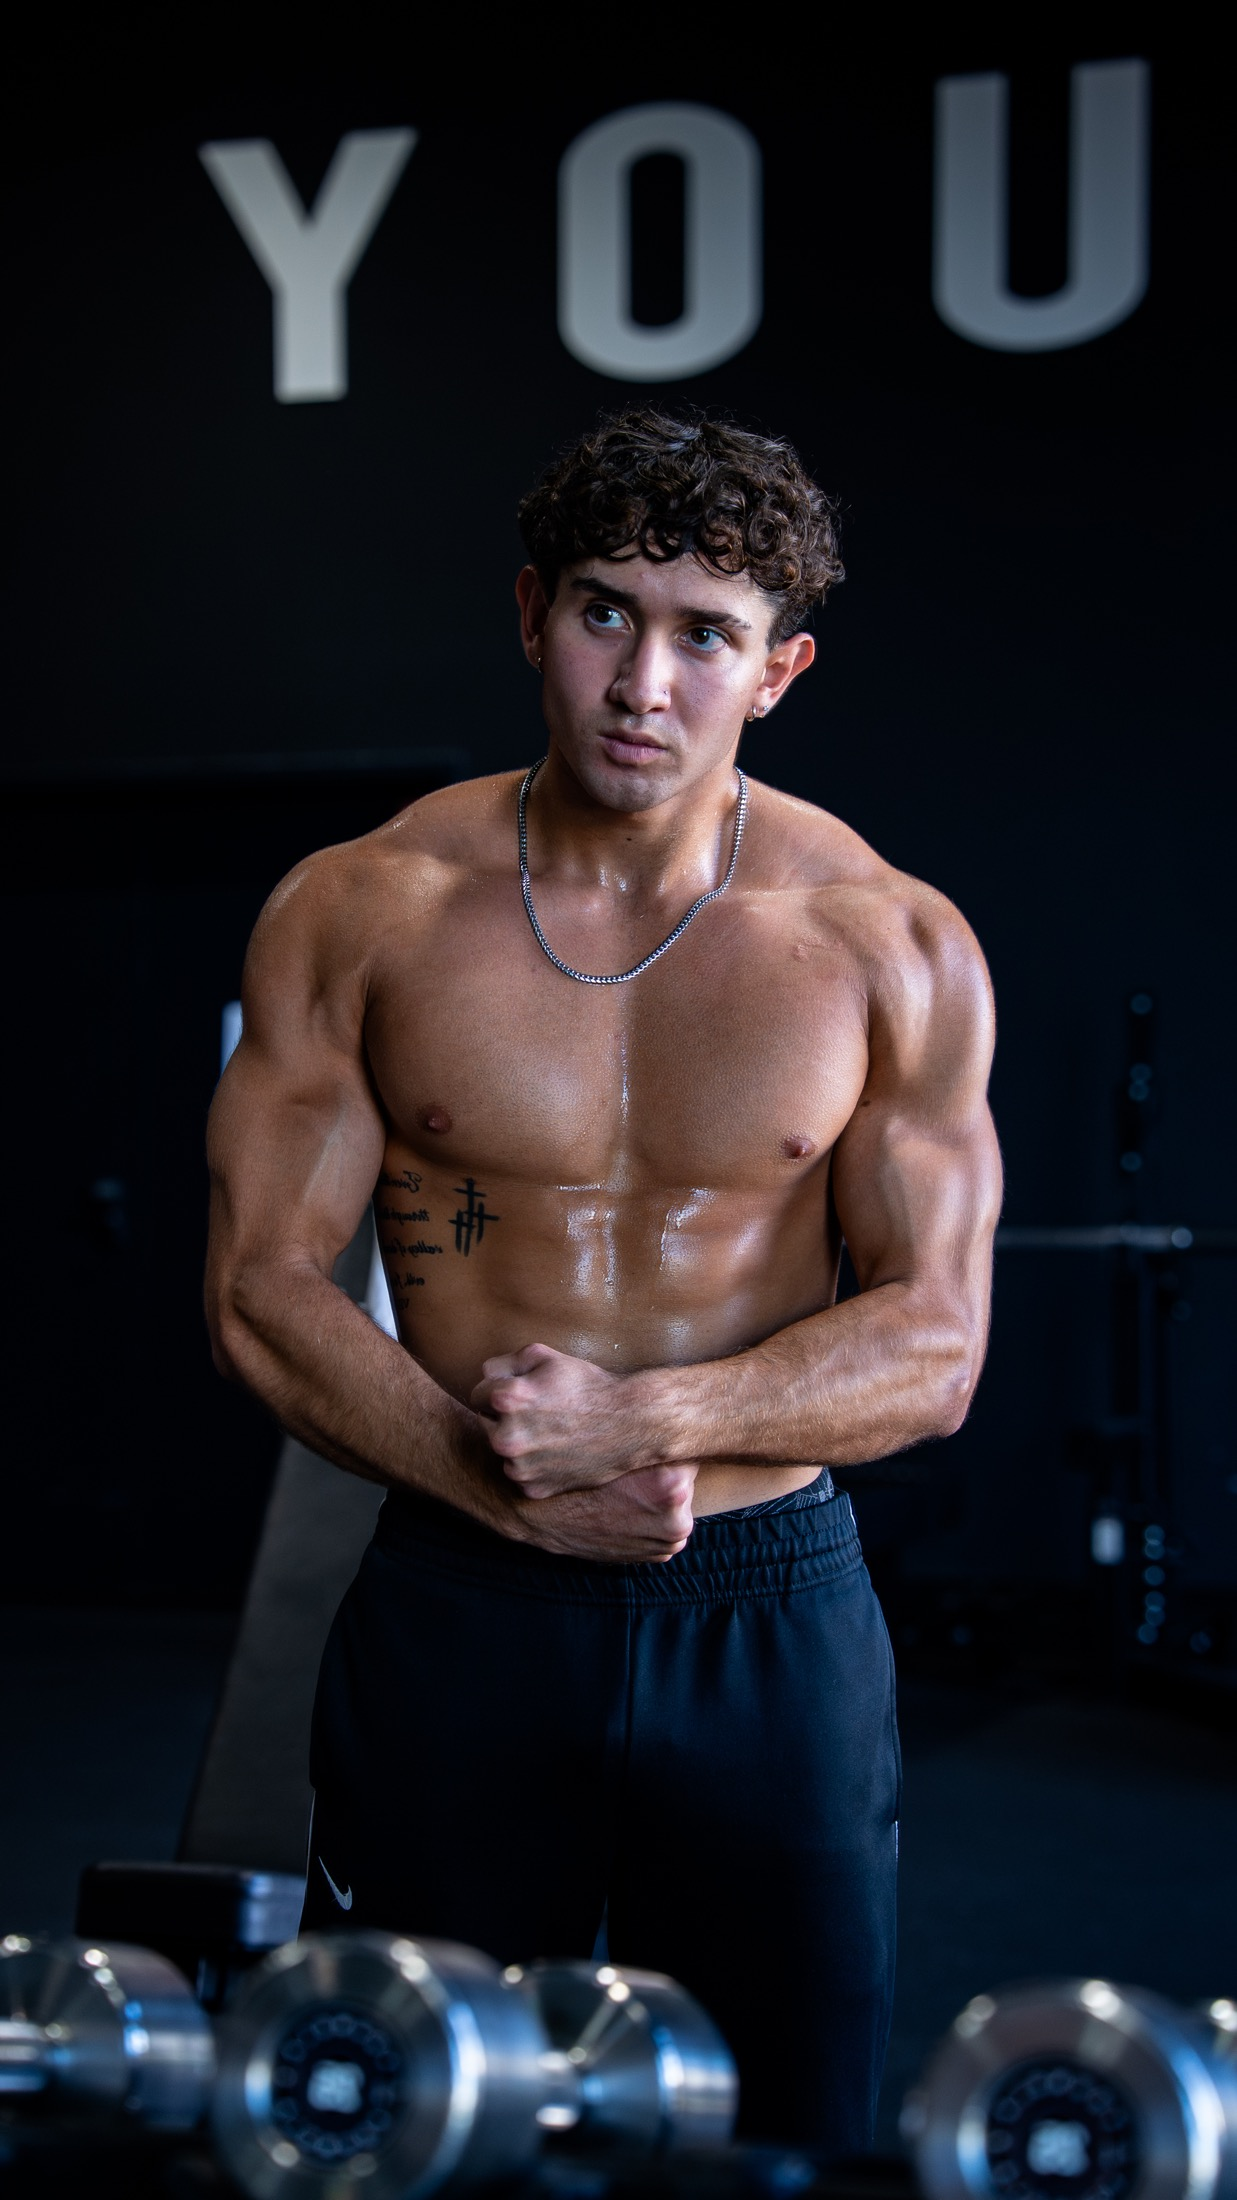
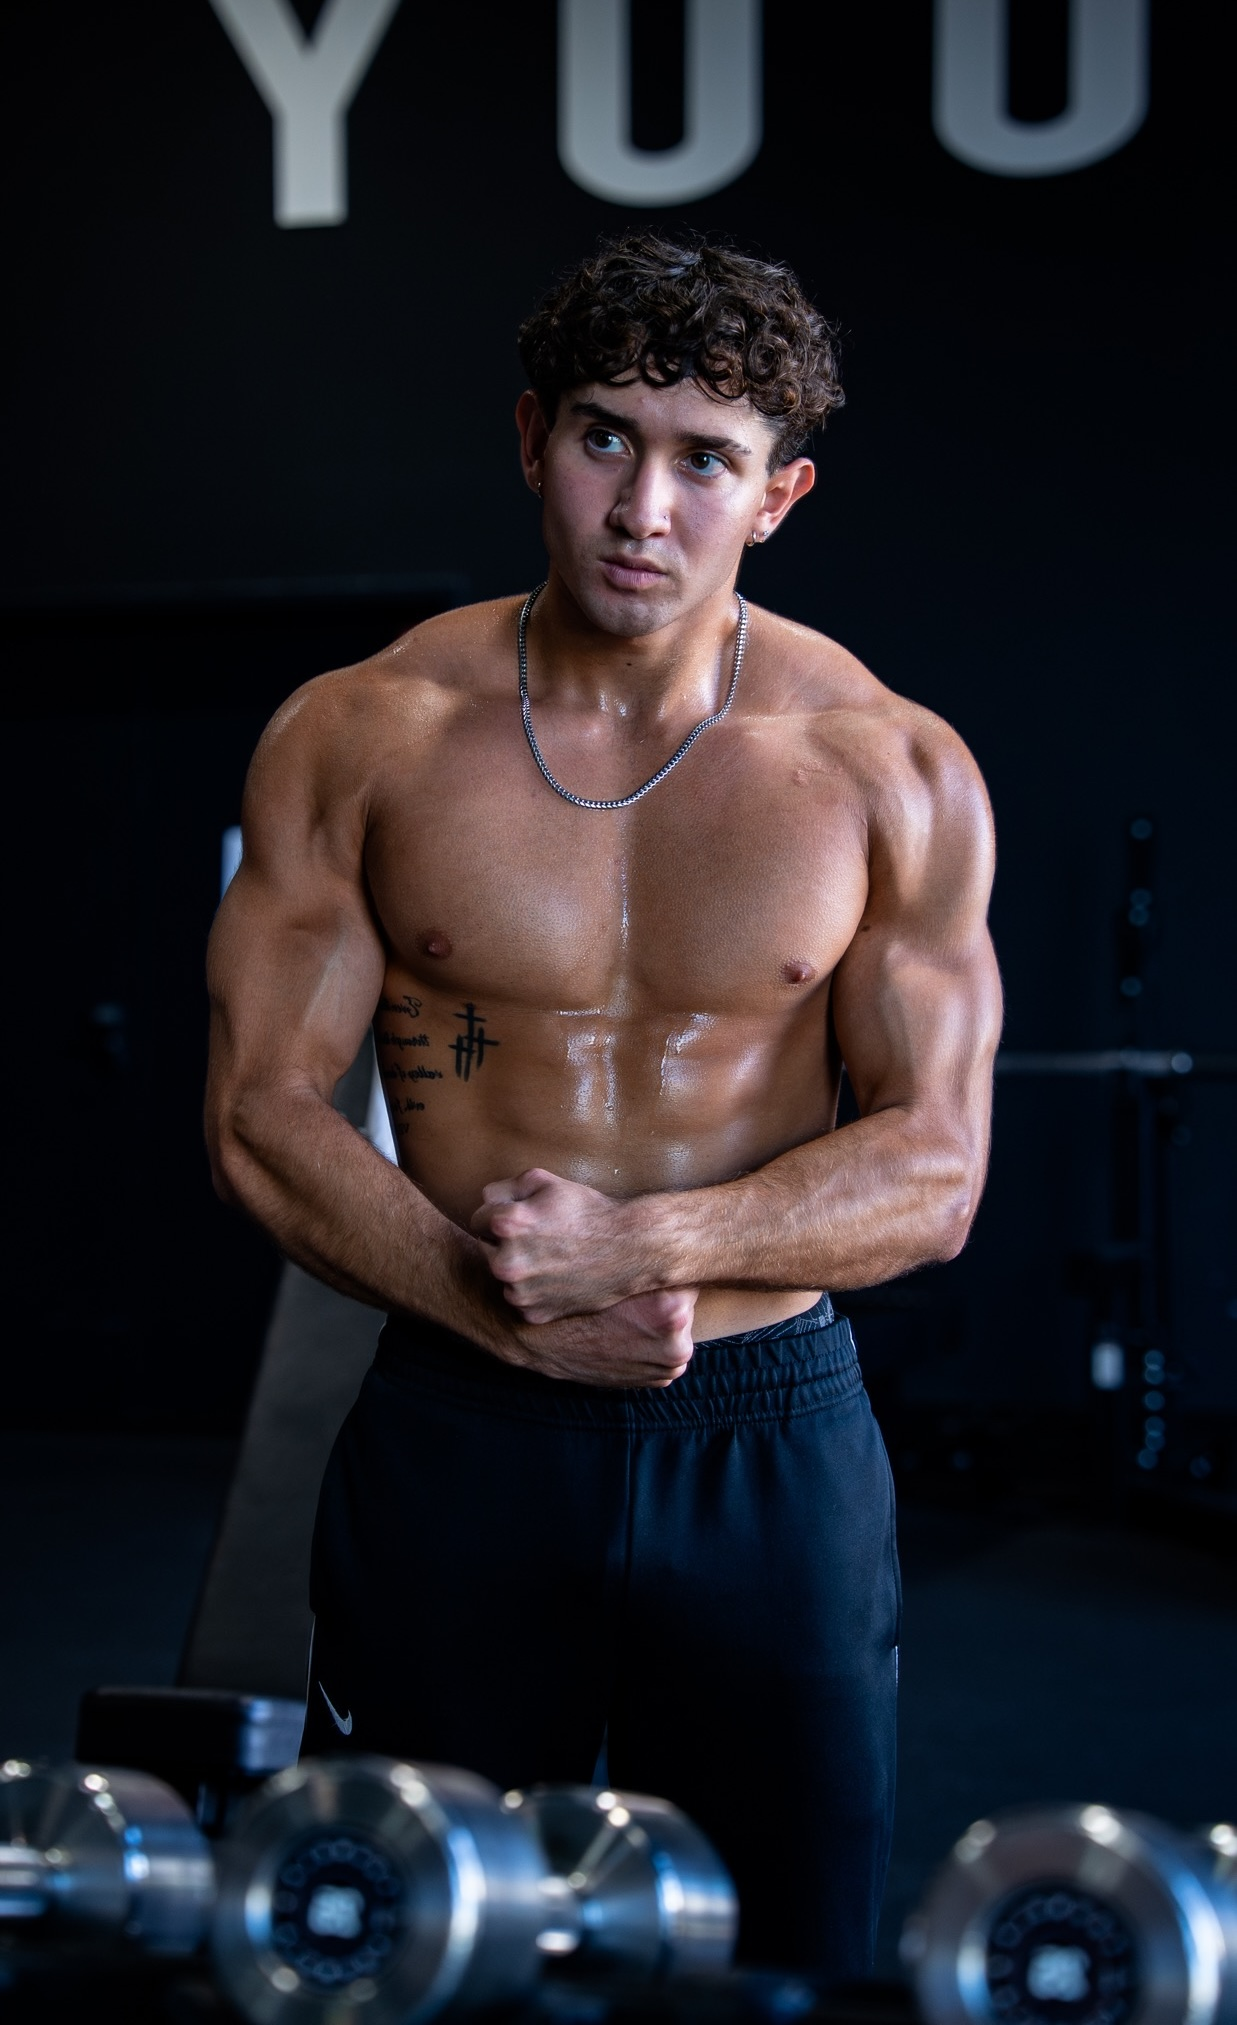
Refine responsive hero and transcription tooling

diff --git a/src/styles/global.css b/src/styles/global.css
@@ -1809,15 +1809,23 @@ footer {
   display: flex;
   flex-direction: column;
   justify-content: flex-end;
-  min-height: 86svh;
+  min-height: clamp(720px, 86svh, 860px);
   overflow: hidden;
   scroll-snap-align: start;
 }
 
+.hc-slide__picture,
 .hc-slide__img {
   position: absolute;
   inset: 0;
   z-index: 0;
+}
+
+.hc-slide__picture {
+  display: block;
+}
+
+.hc-slide__img {
   width: 100%;
   height: 100%;
   object-fit: cover;
@@ -2150,6 +2158,45 @@ footer {
   color: #fff;
 }
 
+@media (min-width: 981px) {
+  .hc-slide[data-slide-kind='questionnaire'] .hc-slide__content {
+    position: absolute;
+    inset: 0;
+    display: flex;
+    flex-direction: column;
+    justify-content: flex-end;
+    align-items: flex-end;
+  }
+
+  .hc-slide[data-slide-kind='questionnaire'] .hc-slide__content > .hc-slide__title {
+    position: absolute;
+    top: clamp(72px, 10vh, 112px);
+    right: clamp(24px, 5vw, 64px);
+    display: block;
+    max-width: 15ch;
+    margin: 0;
+    font-size: clamp(2.6rem, 4.6vw, 4.8rem);
+    line-height: 0.9;
+    text-align: right;
+  }
+
+  .hc-slide[data-slide-kind='questionnaire'] .mobile-title-line {
+    display: block;
+  }
+
+  .hc-slide[data-slide-kind='questionnaire'] .quiz {
+    margin-right: 0;
+    margin-left: auto;
+    text-align: right;
+  }
+
+  .hc-slide[data-slide-kind='questionnaire'] .quiz__question,
+  .hc-slide[data-slide-kind='questionnaire'] .quiz__confirm,
+  .hc-slide[data-slide-kind='questionnaire'] .quiz__option {
+    text-align: right;
+  }
+}
+
 @media (max-width: 980px) {
   .hc-slide[data-slide-kind='questionnaire'] .hc-slide__content {
     position: absolute;
@@ -2161,12 +2208,12 @@ footer {
 
   .hc-slide[data-slide-kind='questionnaire'] .hc-slide__content > .hc-slide__title {
     position: absolute;
-    top: 84px;
+    top: 64px;
     left: 20px;
     display: block;
     max-width: 17ch;
     margin-bottom: 0;
-    font-size: clamp(1.95rem, 8.2vw, 2.45rem);
+    font-size: clamp(1.66rem, 7vw, 2.08rem);
     line-height: 0.92;
   }
 }
@@ -2185,7 +2232,7 @@ footer {
   }
 
   .hc-slide[data-slide-kind='questionnaire'] .hc-slide__content > .hc-slide__title {
-    top: 84px;
+    top: 64px;
   }
 
   .hc-slide[data-slide-kind='questionnaire'] .mobile-title-line {

diff --git a/src/data/site.ts b/src/data/site.ts
@@ -23,8 +23,9 @@ export const site = {
   media: {
     hero: '/images/candidates/instagram-uofpump-07-labor-day.jpg',
     transformationHero: '/images/candidates/transformation-before-after.jpg?v=20260620-crop',
-    afterPhysiqueStrong: '/images/candidates/after-physique-strong.jpg',
-    flexProfile: '/images/candidates/after-physique-strong.jpg',
+    afterPhysiqueStrong: '/images/candidates/after-physique-strong.jpg?v=20260627-hero',
+    flexProfile: '/images/candidates/after-physique-strong.jpg?v=20260627-hero',
+    flexProfileDesktop: '/images/candidates/after-physique-strong-desktop.jpg?v=20260627-desktop-left',
     transformation: '/images/candidates/transformation-before-after.jpg?v=20260620-crop',
     story: '/images/candidates/story-portrait-hoodie.jpg',
     og: '/images/candidates/generated-og-background-alt-01.png',
@@ -36,7 +37,7 @@ export const site = {
     youtubeThumb: '/images/candidates/youtube-more-than-coach-thumbnail.jpg',
     // Reuse the stronger Jaihden image for bio-optimization; the profile avatar
     // is a lower-quality version of the same look.
-    bioOptimization: '/images/candidates/after-physique-strong.jpg',
+    bioOptimization: '/images/candidates/after-physique-strong.jpg?v=20260627-hero',
   },
 };
 
@@ -263,6 +264,7 @@ export const heroSlides = [
     id: 'goal',
     kind: 'questionnaire' as const,
     image: site.media.flexProfile,
+    desktopImage: site.media.flexProfileDesktop,
     alt: 'Jaihden Torres standing in the gym after a session',
     eyebrow: 'Coaching that fits your life',
     title: 'Become the best version of yourself.',
@@ -281,6 +283,7 @@ export const heroSlides = [
     id: 'pump',
     kind: 'panel' as const,
     image: site.media.pumpUniversityHero,
+    desktopImage: site.media.pumpAthletes,
     alt: 'Jaihden Torres wearing Pump University apparel',
     eyebrow: 'Meet the CEO',
     title: 'Pump University.',

diff --git a/public/client-reviews/asset-review/index.html b/public/client-reviews/asset-review/index.html
@@ -413,11 +413,19 @@
       const assets = [
         {
           group: 'Live site candidates',
-          title: 'Hero questionnaire image',
+          title: 'Hero questionnaire image - mobile',
           src: '/images/candidates/after-physique-strong.jpg',
           file: 'after-physique-strong.jpg',
-          usage: 'Hero questionnaire, bio-optimization section, featured Instagram panel',
-          tags: ['live', 'hero', 'bio', 'jaihden', 'physique'],
+          usage: 'Mobile hero questionnaire, bio-optimization section, featured Instagram panel',
+          tags: ['live', 'hero', 'mobile', 'bio', 'jaihden', 'physique'],
+        },
+        {
+          group: 'Live site candidates',
+          title: 'Hero questionnaire image - desktop',
+          src: '/images/candidates/after-physique-strong-desktop.jpg',
+          file: 'after-physique-strong-desktop.jpg',
+          usage: 'Desktop hero questionnaire image',
+          tags: ['live', 'hero', 'desktop', 'jaihden', 'physique'],
         },
         {
           group: 'Live site candidates',

diff --git a/TODO.md b/TODO.md
@@ -1,0 +1,61 @@
+# Jaihden Portfolio Launch Todo
+
+Based on the latest Round 3 feedback recording (`RPReplay_Final1782083472.MOV`) and a comparison against the current site code.
+
+## Priority 0 — Finish before launch
+
+- [ ] Make the mobile questionnaire card reveal more of Jaihden's physique.
+  - Reduce or remove the current `34px` backdrop blur on mobile.
+  - Keep the card compact and transparent while preserving text contrast.
+  - Recheck the first question and confirmation state on a real phone-sized viewport.
+- [ ] Validate the transformation/proof crop on mobile.
+  - Confirm Jaihden's head and full physique remain visible on the second hero slide.
+  - Prefer a better crop or `object-fit` treatment if the current `object-position` adjustment still cuts him off.
+- [ ] Replace the placeholder external links with the supplied destinations.
+  - Bio-optimization / Peak Peptides: `https://peak.you/`
+  - Instagram: `https://www.instagram.com/jaihdentorres?utm_source=qr`
+  - YouTube: `https://youtube.com/@jaihdentorres?si=aKdaCWpzUHzW4N-N`
+  - Snapchat: `https://www.snapchat.com/add/not.ja1?share_id=nt4fi8_gTcifHZptS5mweg&locale=en_US`
+  - TikTok: use the supplied share URL, or confirm the cleaner canonical profile URL for `@jaihdentorrez`.
+- [ ] Consolidate the two “Get to know me” buttons into one CTA.
+  - Recommended label: `Watch “Beer Tastes Better With Abs” on YouTube`.
+  - Link directly to the featured YouTube video.
+- [ ] Finish the Pump University section cleanup.
+  - Change “The brand side…” to “The business side…”.
+  - Remove the `Visit Pump University` button.
+  - Keep `Shop Trademark Collection` as the primary action.
+- [ ] Add approved testimonial copy and final client details.
+  - Current transformation images are present, but names/details/quotes still need client approval.
+  - Do not invent quotes or results.
+
+## Priority 1 — Visual QA and polish
+
+- [ ] Confirm the upgraded “More than a coach” YouTube thumbnail is sharp on mobile and retina displays.
+- [ ] Confirm the upgraded bio-optimization physique image is sharp and framed correctly.
+- [ ] Test every hero slide at common mobile widths: 320, 375, 390, and 430px.
+- [ ] Test the desktop-specific hero image at 1024, 1440, and 1920px.
+- [ ] Check questionnaire focus states, back navigation, and the Tally handoff with each goal.
+- [ ] Check all external links open the intended destination and add safe new-tab behavior where appropriate.
+- [ ] Review bio-optimization wording for conservative, non-medical claims before launch.
+
+## Completed from earlier feedback
+
+- [x] Added separate mobile and desktop questionnaire hero assets.
+- [x] Reduced and moved the mobile “Become the best version of yourself” heading.
+- [x] Added responsive `<picture>` support for desktop hero sources.
+- [x] Added 25+ professional/business-owner qualification language.
+- [x] Replaced “Weight loss” with “Fat loss” and updated questionnaire descriptions.
+- [x] Removed positive `degen` positioning and clarified “Fitness first, partying second.”
+- [x] Added premium coaching details for meal plans, tracking access, and blood-work review.
+- [x] Added client transformation image entries and preserved the no-fabricated-testimonials rule.
+- [x] Added Snapchat to the social rail.
+- [x] Added the final “It’s now or never” application hook.
+- [x] Added a higher-quality YouTube thumbnail asset.
+- [x] Added the reusable AssemblyAI transcription command and Codex skill workflow.
+
+## Repository cleanup
+
+- [x] Remove the duplicate root-level copies of the two latest feedback videos.
+- [ ] Decide whether to keep or delete the unused generated `after-physique-strong-desktop-wide.png`.
+- [ ] Decide whether raw photos, source videos, processed videos, keyframes, and Gemini analysis artifacts belong in Git or external storage.
+- [ ] Resolve the three previously tracked source-video deletions before the next media commit.
